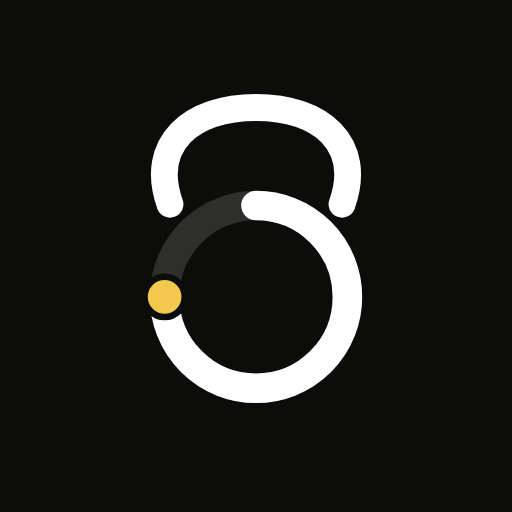
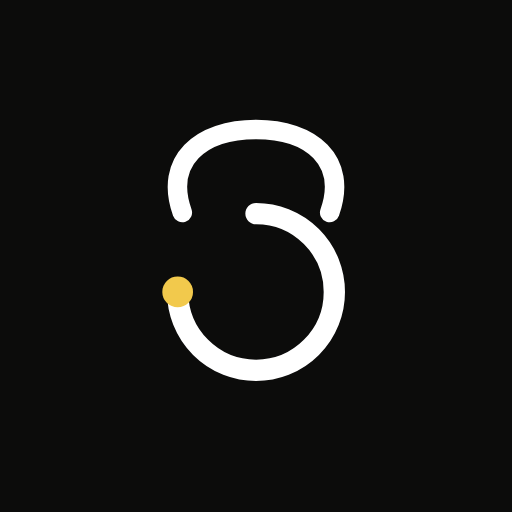
Visual nueva: Dash todo en azules, Entrenamiento en grises con amarillo suave; kettlebell nueva; ícono más fino
- Dash: banda, manchas de la cabecera y fondo de la pantalla en tonos de
  azul (antes salían verdes y salmón); «Reto» en azul.
- Entrenamiento: fondo y cabecera en grises con una mancha amarillo suave;
  la frase del título y la de «Entreno hecho» en amarillo oscuro.
- «Entreno hecho»: kettlebell redonda, asa de kettlebell real, brazos y
  piernas en línea negra, colores lisos con profundidad solo en la sombra
  del cuerpo, el brillo y el piso.
- Ícono: línea más delgada, sin riel ni borde del punto y con más aire
  alrededor.

Claude-Session: https://claude.ai/code/session_017q9eB3jcU4JAqbgUHmF9x1

Changed region(s): [[0.2812, 0.1562, 0.7188, 0.8125]]

diff --git a/src/IlustracionesHoy.jsx b/src/IlustracionesHoy.jsx
@@ -20,9 +20,6 @@ const PULPA = '#D2EA8C';
 const PULPA_BORDE = '#E6F4B6';
 const HUESO = '#9C6238';
 const HUESO_LUZ = '#BE8252';
-const KB = '#5B95E6';
-const KB_OSCURA = '#2F66B8';
-const KB_LUZ = '#8DB8F2';
 const DISCO = '#2C313A';
 const BARRA = '#B9C1CC';
 
@@ -84,51 +81,69 @@ export function IlustracionComida() {
   );
 }
 
-// La kettlebell: cuerpo redondo con la base plana, asa gruesa arriba y un
-// brillo. Centro del cuerpo en (0,0); mide ~70 × 96 con el asa.
-function Kettlebell() {
-  return (
-    <g>
-      <path d="M-15 -22 C-17 -52 17 -52 15 -22" fill="none" stroke={KB_OSCURA} strokeWidth="10" strokeLinecap="round" />
-      <path d="M-26 34 C-40 22 -40 -8 -26 -20 C-16 -28 16 -28 26 -20 C40 -8 40 22 26 34 Z" fill={KB} />
-      <path d="M-24 -10 C-20 -18 -12 -21 -6 -21" fill="none" stroke={KB_LUZ} strokeWidth="4" strokeLinecap="round" />
-      <rect x="-24" y="32" width="48" height="5" rx="2.5" fill={KB_OSCURA} />
-    </g>
-  );
-}
+// La kettlebell de «Entreno hecho»: cuerpo redondo apenas plano abajo, asa
+// de kettlebell de verdad (cuernos curvos y tope plano), brazos y piernas en
+// línea negra. Colores lisos; la profundidad solo donde hace falta: la
+// sombra propia del cuerpo (una media luna), el brillo arriba y la sombra en
+// el piso. Gris de Entrenamiento con el amarillo de la marca en los discos.
+const KB_G = '#6B737D', KB_G_SOMBRA = '#565D67', KB_G_LUZ = '#98A0AA', KB_ASA = '#4F565F', KB_ASA_LUZ = '#7F8791';
+const NEGRO = '#23272D';
+const CUERPO_KB = 'M-17 31 C-38 25 -42 -2 -31 -18 C-22 -31 -11 -35 0 -35 C11 -35 22 -31 31 -18 C42 -2 38 25 17 31 C6 33.4 -6 33.4 -17 31 Z';
 
 export function IlustracionPesas() {
+  const id = React.useId().replace(/:/g, '');
   return (
     <svg viewBox="0 0 200 124" aria-hidden="true" data-dibujo="pesas" style={{ width: '100%', height: '100%', display: 'block', overflow: 'visible' }}>
-      <Fondo color="#3C7BD6" />
-      <ellipse cx="120" cy="120" rx="30" ry="4" fill="#1E3F73" opacity="0.2" />
+      <defs>
+        <clipPath id={`${id}c`}><path d={CUERPO_KB} /></clipPath>
+        <filter id={`${id}b`} x="-50%" y="-50%" width="200%" height="200%"><feGaussianBlur stdDeviation="1.6" /></filter>
+      </defs>
+      <circle cx="120" cy="62" r="56" fill="#FFFFFF" opacity="0.45" />
+      <circle cx="44" cy="32" r="5" fill="#FFFFFF" opacity="0.75" />
+      <circle cx="184" cy="96" r="4" fill="#F2C94C" opacity="0.55" />
+      {/* sombra en el piso, suave */}
+      <ellipse cx="120" cy="120.5" rx="34" ry="4.6" fill="#1E2228" opacity="0.16" filter={`url(#${id}b)`} />
       <g transform="translate(120 72)">
-        {/* piernas cortas, abiertas, bien plantadas */}
-        <g stroke={KB_OSCURA} strokeWidth="6" strokeLinecap="round" fill="none">
-          <path d="M-12 36 L-16 46" />
-          <path d="M12 36 L16 46" />
-        </g>
-        <ellipse cx="-19" cy="47.5" rx="6.5" ry="3" fill={KB_OSCURA} />
-        <ellipse cx="19" cy="47.5" rx="6.5" ry="3" fill={KB_OSCURA} />
-        {/* brazos arriba, sosteniendo la barra sobre el asa */}
-        <g stroke={KB_OSCURA} strokeWidth="6" strokeLinecap="round" fill="none">
-          <path d="M-33 0 Q-46 -26 -36 -58" />
-          <path d="M33 0 Q46 -26 36 -58" />
-        </g>
-        <Kettlebell />
-        {/* una gota de esfuerzo, fuera del cuerpo */}
-        <path d="M44 -30 q3 5 0 7 q-3 -2 0 -7 Z" fill="#7FB2F0" />
-        {/* la barra con sus discos */}
+        {/* asa: cuernos curvos y tope plano */}
+        <path d="M-20 -26 C-25.5 -38 -24 -50 -13 -55.5 L13 -55.5 C24 -50 25.5 -38 20 -26" fill="none" stroke={KB_ASA} strokeWidth="9.5" strokeLinecap="round" strokeLinejoin="round" />
+        <path d="M-19.6 -33 C-21.4 -42 -18.5 -49.5 -11.5 -52.6 L2 -52.6" fill="none" stroke={KB_ASA_LUZ} strokeWidth="2.4" strokeLinecap="round" />
+        {/* la barra con sus discos (cada uno con su canto) */}
         <g transform="translate(0 -61)">
-          <rect x="-66" y="-2.5" width="132" height="5" rx="2.5" fill={BARRA} />
-          <rect x="-62" y="-15" width="9" height="30" rx="3.5" fill={DISCO} />
-          <rect x="-52" y="-11" width="7" height="22" rx="3" fill="#3C7BD6" />
-          <rect x="53" y="-15" width="9" height="30" rx="3.5" fill={DISCO} />
-          <rect x="45" y="-11" width="7" height="22" rx="3" fill="#3C7BD6" />
-          <circle cx="-36" cy="0" r="4.5" fill={KB_OSCURA} />
-          <circle cx="36" cy="0" r="4.5" fill={KB_OSCURA} />
+          <rect x="-70" y="-2.6" width="140" height="5.2" rx="2.6" fill="#B9C1CC" />
+          <rect x="-70" y="-2.6" width="140" height="1.8" rx="0.9" fill="#E3E8ED" />
+          <rect x="-60" y="-16" width="9" height="32" rx="4" fill="#1C2026" />
+          <rect x="-62" y="-16" width="9" height="32" rx="4" fill="#2E333B" />
+          <rect x="-50" y="-11.5" width="7" height="23" rx="3.2" fill="#D4A72C" />
+          <rect x="-52" y="-11.5" width="7" height="23" rx="3.2" fill="#F2C94C" />
+          <rect x="53" y="-16" width="9" height="32" rx="4" fill="#1C2026" />
+          <rect x="51" y="-16" width="9" height="32" rx="4" fill="#2E333B" />
+          <rect x="45" y="-11.5" width="7" height="23" rx="3.2" fill="#D4A72C" />
+          <rect x="43" y="-11.5" width="7" height="23" rx="3.2" fill="#F2C94C" />
         </g>
+        {/* brazos y piernas: una línea negra (detrás del cuerpo) */}
+        <g stroke={NEGRO} strokeWidth="5.5" strokeLinecap="round" fill="none">
+          <path d="M-30 -6 Q-52 -26 -38 -60" />
+          <path d="M30 -6 Q52 -26 38 -60" />
+          <path d="M-11 30 L-14 43" />
+          <path d="M11 30 L14 43" />
+        </g>
+        <ellipse cx="-18" cy="45.5" rx="7" ry="3.3" fill={NEGRO} />
+        <ellipse cx="18" cy="45.5" rx="7" ry="3.3" fill={NEGRO} />
+        {/* cuerpo liso + media luna de sombra abajo a la derecha */}
+        <path d={CUERPO_KB} fill={KB_G_SOMBRA} />
+        <g clipPath={`url(#${id}c)`}>
+          <circle cx="-5" cy="-6" r="36" fill={KB_G} />
+        </g>
+        {/* brillo: un trazo curvo y un punto */}
+        <path d="M-27 -8 C-24 -19 -15 -26 -5 -27.5" fill="none" stroke={KB_G_LUZ} strokeWidth="4.5" strokeLinecap="round" />
+        <circle cx="-26.5" cy="2" r="2.2" fill={KB_G_LUZ} />
+        {/* manos sobre la barra */}
+        <circle cx="-38" cy="-61" r="4.8" fill={NEGRO} />
+        <circle cx="38" cy="-61" r="4.8" fill={NEGRO} />
+        {/* gota de esfuerzo */}
+        <path d="M50 -32 c3.5 5.5 3 9 0 9 c-3 0 -3.5 -3.5 0 -9 Z" fill="#CFE0F2" />
       </g>
+      <path d="M26 32 l1.6 4 4 1.6 -4 1.6 -1.6 4 -1.6 -4 -4 -1.6 4 -1.6 Z" fill="#FFFFFF" opacity="0.95" />
     </svg>
   );
 }

diff --git a/src/MealTracker.jsx b/src/MealTracker.jsx
@@ -40,7 +40,7 @@ import { aplicarV2 } from './v2-fuentes.js';
 import {
   ACCENT, ACCENT_DARK, ACCENT_PASTEL, ACCENT_LIGHT,
   C_PROTEIN, C_PROTEIN_PASTEL, C_CARBS, C_CARBS_PASTEL, C_FAT, C_FAT_PASTEL, C_WATER,
-  BG, BG_STAINS, BG_STAINS_WARM, BG_STAINS_COOL, SURFACE, SURFACE_2, BORDER, BORDER_SOFT, TEXT, TEXT_MUTED, TEXT_LIGHT,
+  BG, BG_STAINS, BG_STAINS_DASH, BG_STAINS_ENTRENO, BG_STAINS_WARM, BG_STAINS_COOL, SURFACE, SURFACE_2, BORDER, BORDER_SOFT, TEXT, TEXT_MUTED, TEXT_LIGHT,
   SUCCESS, WARN, DANGER, DANGER_SOFT, FONT_UI, FONT_DISPLAY, SHADOW_RAISED,
   SECCION,
 } from './theme.js';
@@ -5143,6 +5143,12 @@ EJEMPLO OUTPUT: {"intent":"log_meal","meal":"desayuno","items":[{"name":"Huevo r
   };
   // Al tocar una sección se abre en su Hoy: Entrenamiento, Alimentación y
   // Aprendizaje, las tres igual.
+  // Visual nueva: las manchas del fondo de la pantalla en los tonos de la
+  // sección (el Dash, todo azules; Entrenamiento, grises con amarillo suave).
+  const MANCHAS_V2 = {
+    dash: ['rgba(143,179,232,0.40)', 'rgba(110,158,224,0.22)', 'rgba(198,218,246,0.50)'],
+    entreno: ['rgba(169,175,184,0.32)', 'rgba(244,220,147,0.30)', 'rgba(205,210,216,0.38)'],
+  };
   const irSeccionV2 = (sec) => {
     if (sec === 'dash') return irSubV2('dash');
     if (sec === 'entreno') return irSubV2('entreno', 'hoy');
@@ -5160,9 +5166,11 @@ EJEMPLO OUTPUT: {"intent":"log_meal","meal":"desayuno","items":[{"name":"Huevo r
         zIndex: 0,
         background: [
           `radial-gradient(55% 42% at 8% 0%, rgba(247,243,232,0.9), transparent 70%)`,
-          `radial-gradient(48% 40% at 96% 12%, ${ACCENT_PASTEL}4D, transparent 70%)`,
-          `radial-gradient(45% 38% at 22% 58%, ${C_PROTEIN_PASTEL}33, transparent 72%)`,
-          `radial-gradient(50% 42% at 96% 94%, ${C_FAT_PASTEL}30, transparent 72%)`,
+          ...((v2 && MANCHAS_V2[seccionV2]) || [`${ACCENT_PASTEL}4D`, `${C_PROTEIN_PASTEL}33`, `${C_FAT_PASTEL}30`]).map((c, i) => [
+            `radial-gradient(48% 40% at 96% 12%, ${c}, transparent 70%)`,
+            `radial-gradient(45% 38% at 22% 58%, ${c}, transparent 72%)`,
+            `radial-gradient(50% 42% at 96% 94%, ${c}, transparent 72%)`,
+          ][i]),
           `radial-gradient(55% 45% at 40% 102%, rgba(250,246,236,0.85), transparent 65%)`,
         ].join(', ')
       }} />
@@ -5994,7 +6002,7 @@ EJEMPLO OUTPUT: {"intent":"log_meal","meal":"desayuno","items":[{"name":"Huevo r
           la barra de URL del navegador y se sienta una sección más. */}
       {showTraining && (
         <div data-view="entrena" className="fixed inset-0 overflow-y-auto" style={{ zIndex: 37, background: BG }}>
-          <div className="fixed inset-0 pointer-events-none" style={{ background: BG_STAINS }} />
+          <div className="fixed inset-0 pointer-events-none" style={{ background: v2 ? BG_STAINS_ENTRENO : BG_STAINS }} />
           {/* Con la barra de cristal nueva lo de atrás tiene que verse: sin
               el difuminado de abajo. */}
           {!v2 && <div className="fixed left-0 right-0 bottom-0 pointer-events-none" style={{
@@ -6012,7 +6020,7 @@ EJEMPLO OUTPUT: {"intent":"log_meal","meal":"desayuno","items":[{"name":"Huevo r
       {/* DASH (visual nueva): cómo vas en todo, en una pantalla. */}
       {showDash && (
         <div data-view="dash" className="fixed inset-0 overflow-y-auto" style={{ zIndex: 37, background: BG }}>
-          <div className="fixed inset-0 pointer-events-none" style={{ background: BG_STAINS }} />
+          <div className="fixed inset-0 pointer-events-none" style={{ background: v2 ? BG_STAINS_DASH : BG_STAINS }} />
           <Suspense fallback={null}>
             <Dash name={name} history={history} goals={goals}
               avisoPago={paymentDue && !paymentDue.bloqueo ? <PaymentNotice v2={v2} info={paymentDue} style={{ marginTop: '16px' }} /> : null}

diff --git a/src/theme.js b/src/theme.js
@@ -50,6 +50,26 @@ export const BG_STAINS = `radial-gradient(48% 34% at 90% 0%, rgba(126,188,168,0.
 // encienden encima del fondo y derivan en direcciones opuestas — los tonos
 // cálidos y fríos se cruzan e iluminan (efecto Gemini). Al terminar se
 // apagan con un fade y queda solo BG_STAINS estático.
+// Visual nueva: el fondo de manchas en los tonos de la sección. El Dash,
+// todo en azules; Entrenamiento, grises con un toque de amarillo suave.
+export const BG_STAINS_DASH = `radial-gradient(48% 34% at 90% 0%, rgba(143,179,232,0.55), transparent 70%),
+  radial-gradient(42% 30% at -4% 14%, rgba(110,158,224,0.32), transparent 70%),
+  radial-gradient(40% 30% at 34% 10%, rgba(198,218,246,0.50), transparent 70%),
+  radial-gradient(50% 36% at 55% 36%, rgba(255,255,255,0.85), transparent 70%),
+  radial-gradient(44% 32% at 0% 66%, rgba(143,179,232,0.40), transparent 72%),
+  radial-gradient(48% 36% at 103% 54%, rgba(110,158,224,0.28), transparent 70%),
+  radial-gradient(42% 30% at 100% 84%, rgba(198,218,246,0.45), transparent 72%),
+  radial-gradient(44% 32% at 26% 100%, rgba(143,179,232,0.34), transparent 72%),
+  radial-gradient(42% 32% at 74% 96%, rgba(255,255,255,0.75), transparent 72%)`;
+export const BG_STAINS_ENTRENO = `radial-gradient(48% 34% at 90% 0%, rgba(169,175,184,0.50), transparent 70%),
+  radial-gradient(42% 30% at -4% 14%, rgba(244,220,147,0.40), transparent 70%),
+  radial-gradient(40% 30% at 34% 10%, rgba(205,210,216,0.45), transparent 70%),
+  radial-gradient(50% 36% at 55% 36%, rgba(255,255,255,0.85), transparent 70%),
+  radial-gradient(44% 32% at 0% 66%, rgba(169,175,184,0.40), transparent 72%),
+  radial-gradient(48% 36% at 103% 54%, rgba(244,220,147,0.30), transparent 70%),
+  radial-gradient(42% 30% at 100% 84%, rgba(205,210,216,0.40), transparent 72%),
+  radial-gradient(44% 32% at 26% 100%, rgba(244,220,147,0.28), transparent 72%),
+  radial-gradient(42% 32% at 74% 96%, rgba(255,255,255,0.75), transparent 72%)`;
 export const BG_STAINS_WARM = `radial-gradient(56% 44% at 78% 12%, rgba(248,196,96,0.85), transparent 68%),
   radial-gradient(52% 42% at 14% 42%, rgba(244,146,104,0.78), transparent 68%),
   radial-gradient(50% 40% at 62% 88%, rgba(248,206,120,0.70), transparent 70%)`;

diff --git a/src/Entrenamiento.jsx b/src/Entrenamiento.jsx
@@ -1134,12 +1134,12 @@ function HojaFin({ fin, alCerrar }) {
         background: '#FFFFFF', borderRadius: 28, maxWidth: 380, width: '100%', overflow: 'hidden',
         boxShadow: '0 20px 60px rgba(0,0,0,.25)', maxHeight: '88vh', overflowY: 'auto',
       }}>
-        <div style={{ position: 'relative', height: 150, background: `radial-gradient(70% 90% at 70% 10%, #B9BEC6 0%, rgba(185,190,198,0) 70%), radial-gradient(60% 80% at 10% 90%, #F6CFA9 0%, rgba(246,207,169,0) 70%), #EEEFF1`, display: 'grid', placeItems: 'end center' }}>
+        <div style={{ position: 'relative', height: 150, background: `radial-gradient(70% 90% at 70% 10%, #B9BEC6 0%, rgba(185,190,198,0) 70%), radial-gradient(60% 80% at 10% 90%, #F4DC93 0%, rgba(244,220,147,0) 70%), #EEEFF1`, display: 'grid', placeItems: 'end center' }}>
           <div className="fin-dibujo" style={{ width: 210, height: 130, marginBottom: 6, marginRight: 40 }}><IlustracionPesas /></div>
         </div>
         <div style={{ padding: '18px 20px 20px' }}>
           <div style={{ fontSize: 26, fontWeight: 800, color: TEXT, letterSpacing: '-0.03em', lineHeight: 1.08 }}>Entreno hecho.</div>
-          <div style={{ fontSize: 17, fontWeight: 700, color: A.ink, letterSpacing: '-0.01em', lineHeight: 1.3, marginTop: 4 }}>{frase}</div>
+          <div style={{ fontSize: 17, fontWeight: 700, color: '#A87A06', letterSpacing: '-0.01em', lineHeight: 1.3, marginTop: 4 }}>{frase}</div>
           {/* Lo que hizo, subiendo desde cero; y la barra que se llena hasta
               donde llegó. */}
           <div style={{ display: 'grid', gridTemplateColumns: 'repeat(auto-fit, minmax(84px, 1fr))', gap: 8, marginTop: 16 }}>

diff --git a/src/CabeceraHoy.jsx b/src/CabeceraHoy.jsx
@@ -27,14 +27,14 @@ import { ILUSTRACION } from './IlustracionesCabecera.jsx';
 // las manchas · tinta: la segunda línea de la frase (contraste para letra
 // grande sobre claro).
 export const TEMAS = {
-  entreno: { banda: ['#C5CAD1', '#D7DADF'], m1: '#A9AFB8', m2: '#DADDE2', m3: '#F6CFA9', base: '#F1F2F4', tinta: '#5F6670' },
+  // Entrenamiento: grises con un toque de amarillo suave (mancha y frase).
+  entreno: { banda: ['#B9BFC7', '#CDD1D7'], m1: '#A3AAB3', m2: '#D5D9DE', m3: '#F4DC93', base: '#EFF0F2', tinta: '#A87A06' },
   comida:  { banda: ['#C3E3CB', '#D6EDDC'], m1: '#9CCFA8', m2: '#D7EEDC', m3: '#F7E1A0', base: '#F0F8F1', tinta: '#2F7F45' },
   aprende: { banda: ['#F7CFAF', '#FADFCA'], m1: '#F6B98C', m2: '#FBE0CB', m3: '#A9C6EE', base: '#FDF3EA', tinta: '#C95F17' },
-  // El Dash es la marca completa: la banda en azul y una mancha de cada
-  // módulo (gris de Entrenamiento, verde de Alimentación, naranja de
-  // Aprendizaje) más el amarillo de acento. La segunda línea de la frase,
-  // en amarillo oscuro.
-  dash:    { banda: ['#BFD5F4', '#D3E2F8'], m1: '#B7BCC4', m2: '#A8D5B3', m3: '#F6C39C', m4: '#F2D57A', base: '#F3F2EE', tinta: '#A87400' },
+  // El Dash, todo en azules: banda más intensa y manchas de varios tonos
+  // de azul. La segunda línea de la frase, en amarillo oscuro, para que
+  // contraste con el azul.
+  dash:    { banda: ['#9CBDEB', '#B6CFF2'], m1: '#8FB3E8', m2: '#C6DAF6', m3: '#6E9EE0', m4: '#DCE7F8', base: '#EAF1FB', tinta: '#A87400' },
 };
 
 const CSS = `

diff --git a/src/Dash.jsx b/src/Dash.jsx
@@ -373,7 +373,7 @@ export default function Dash({ name, history, goals, entrenoOn = true, alIr, rac
           protagonismo a las gráficas. Recordatorios y Configuración van
           solo con su ícono (campana y tuerca) para que todo quepa. */}
       <div data-atajos style={{ display: 'flex', flexWrap: 'nowrap', alignItems: 'center', gap: 5, marginTop: 14, overflowX: 'auto', scrollbarWidth: 'none', padding: '6px 6px 6px 0' }}>
-        <Pastilla mini apretada icono={Mountains} color="#D9744A" onClick={() => setSinRetos(true)}>Reto</Pastilla>
+        <Pastilla mini apretada icono={Mountains} color="#2F6CC4" onClick={() => setSinRetos(true)}>Reto</Pastilla>
         {wa && <Pastilla mini apretada icono={WhatsappLogo} color="#25A35A" href={wa}>Coach</Pastilla>}
         <Pastilla mini apretada icono={UsersThree} color="#3C7BD6" badge={nuevosComunidad} badgeEncima data-abrir-comunidad
           aria-label={`Comunidad${nuevosComunidad ? ` · ${nuevosComunidad} ${nuevosComunidad === 1 ? 'nueva' : 'nuevas'}` : ''}`}
